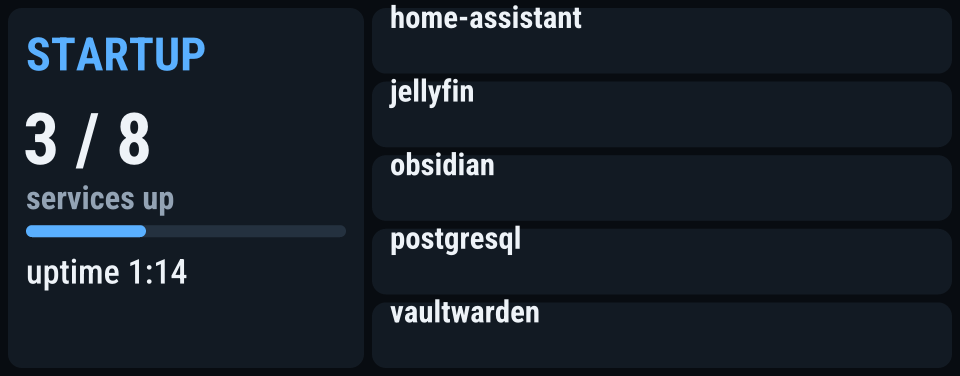
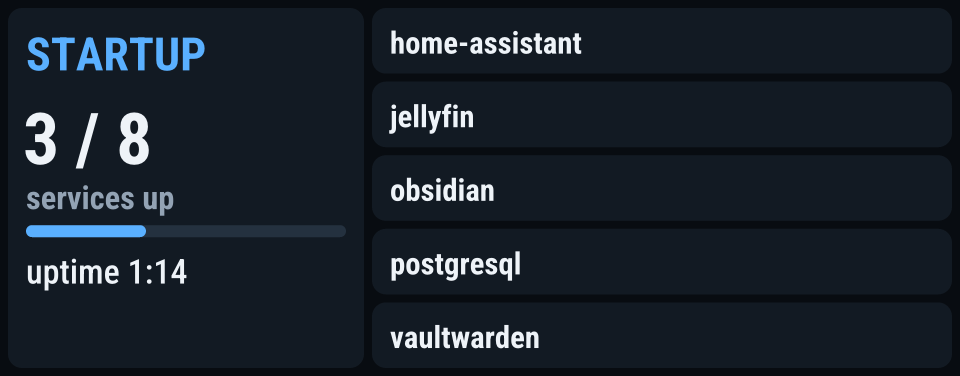
Baseline-centered rows, fixed queue template, refreshed screenshots

diff --git a/crates/aoostar-lcd/src/render/pages.rs b/crates/aoostar-lcd/src/render/pages.rs
@@ -425,8 +425,10 @@ fn card(canvas: &mut Canvas, x: f32, y: f32, w: f32, h: f32, accent: Option<Rgb>
 }
 
 /// Vertical baseline of a single line centered inside a row of height `h`.
+/// The baseline is the bottom of the caps: centering it means half the cap
+/// height ends up below the middle line.
 fn center_baseline(y: f32, h: f32, style: Style) -> f32 {
-    y + (h - Canvas::cap_height(style)) / 2.0
+    y + (h + Canvas::cap_height(style)) / 2.0
 }
 
 /// Baselines of a vertically centered title-over-detail block. Row content
@@ -802,7 +804,7 @@ fn ci(canvas: &mut Canvas, view: &View) {
             }
         }
         if hidden > 0 {
-            parts.push(strings.tn("ci.more_running", hidden as u64));
+            parts.push(strings.tf("ci.more_running", &[("n", &hidden.to_string())]));
         }
         let wait_tone = ci
             .oldest_queued_secs
@@ -1704,47 +1706,6 @@ mod tests {
 
     #[test]
     fn clock_applies_offset_and_wraps_midnight() {
-        // THROWAWAY: dump phase screenshots for docs, remove after.
-        shutdown_page(
-            Target::Reboot,
-            &I18n::english(),
-            &Progress {
-                total: 8,
-                stopped: 3,
-                pending: vec![
-                    "jellyfin".into(),
-                    "home-assistant".into(),
-                    "vaultwarden".into(),
-                ],
-                failed: vec!["nginx".into()],
-            },
-            true,
-            Some(11),
-            23,
-            false,
-        )
-        .save("/tmp/reboot.png")
-        .unwrap();
-        shutdown_page(
-            Target::Poweroff,
-            &I18n::english(),
-            &Progress {
-                total: 8,
-                stopped: 8,
-                pending: vec![],
-                failed: vec![],
-            },
-            true,
-            Some(0),
-            61,
-            true,
-        )
-        .save("/tmp/shutdown.png")
-        .unwrap();
-    }
-
-    #[test]
-    fn clock_applies_offset_and_wraps_midnight_real() {
         assert_eq!(clock_text(86_399, 0), "23:59");
         assert_eq!(clock_text(22 * 3600, 180), "01:00");
     }
